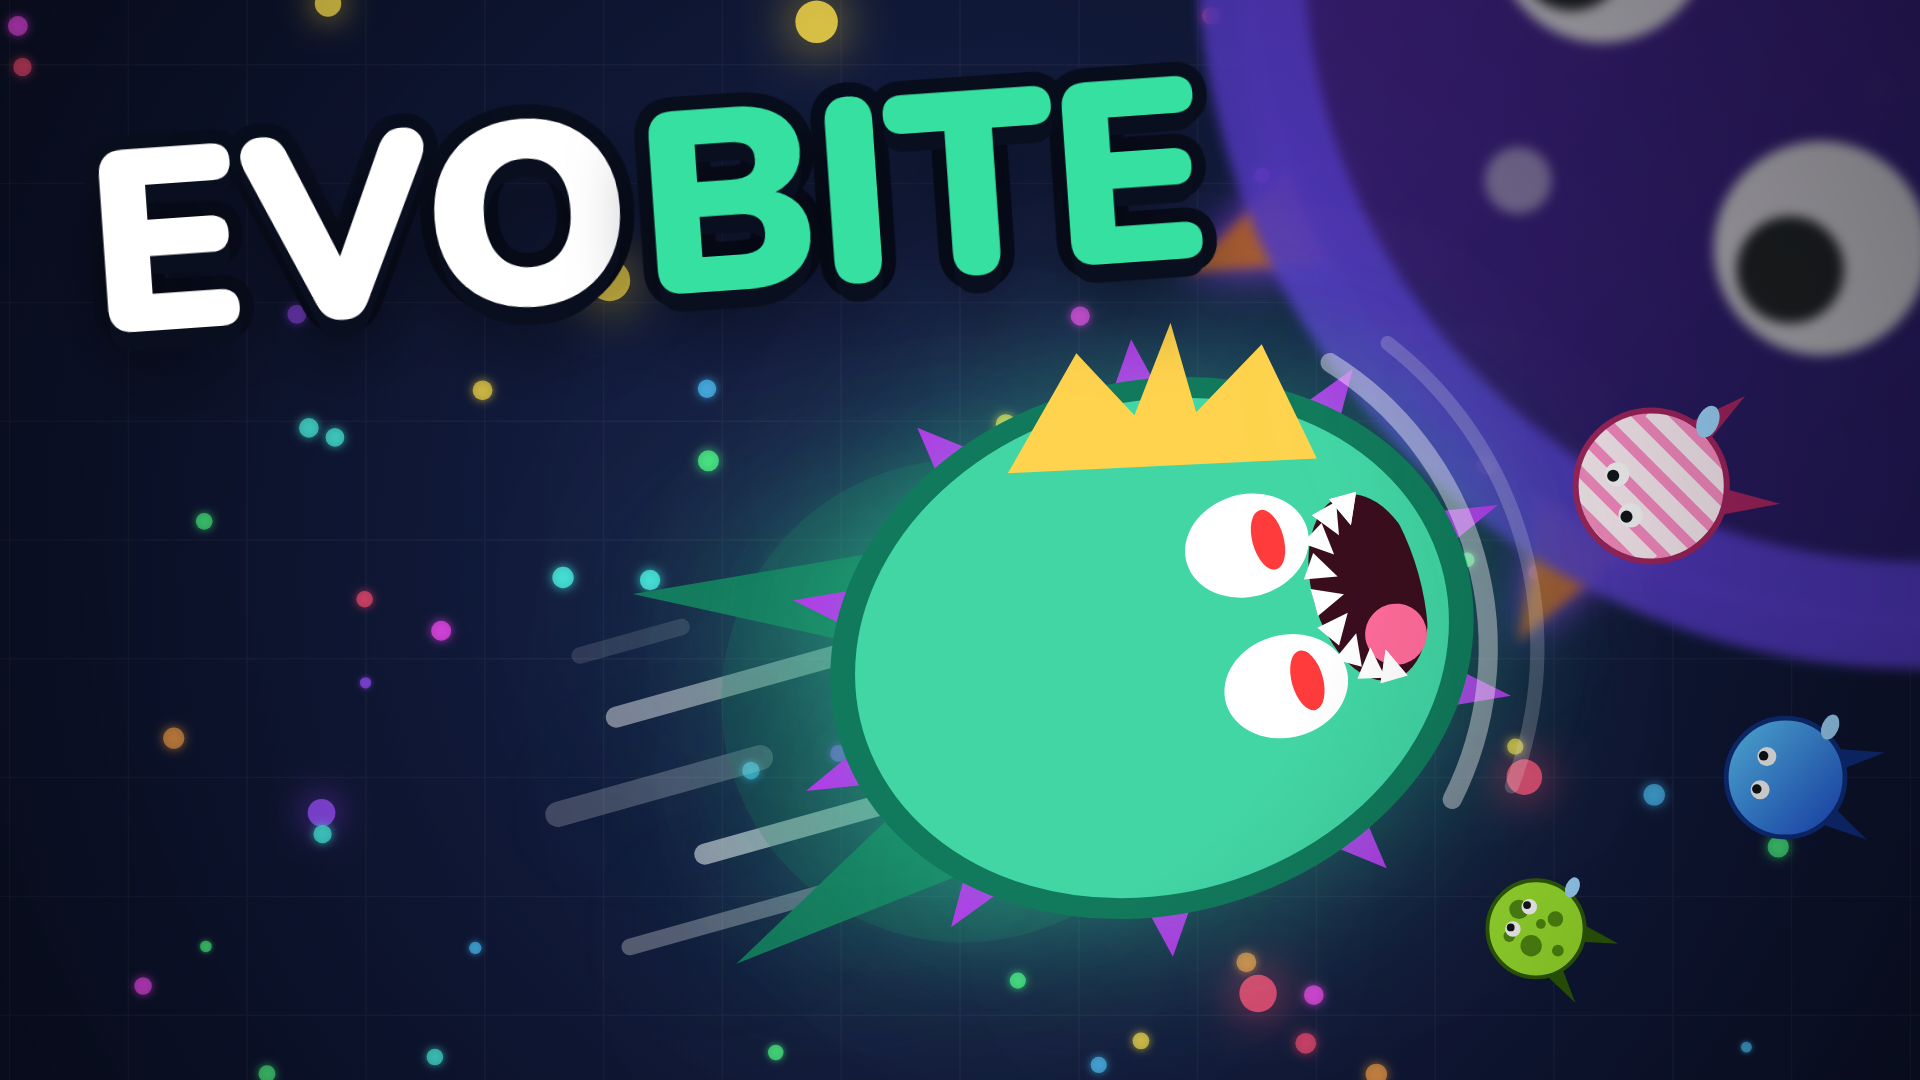
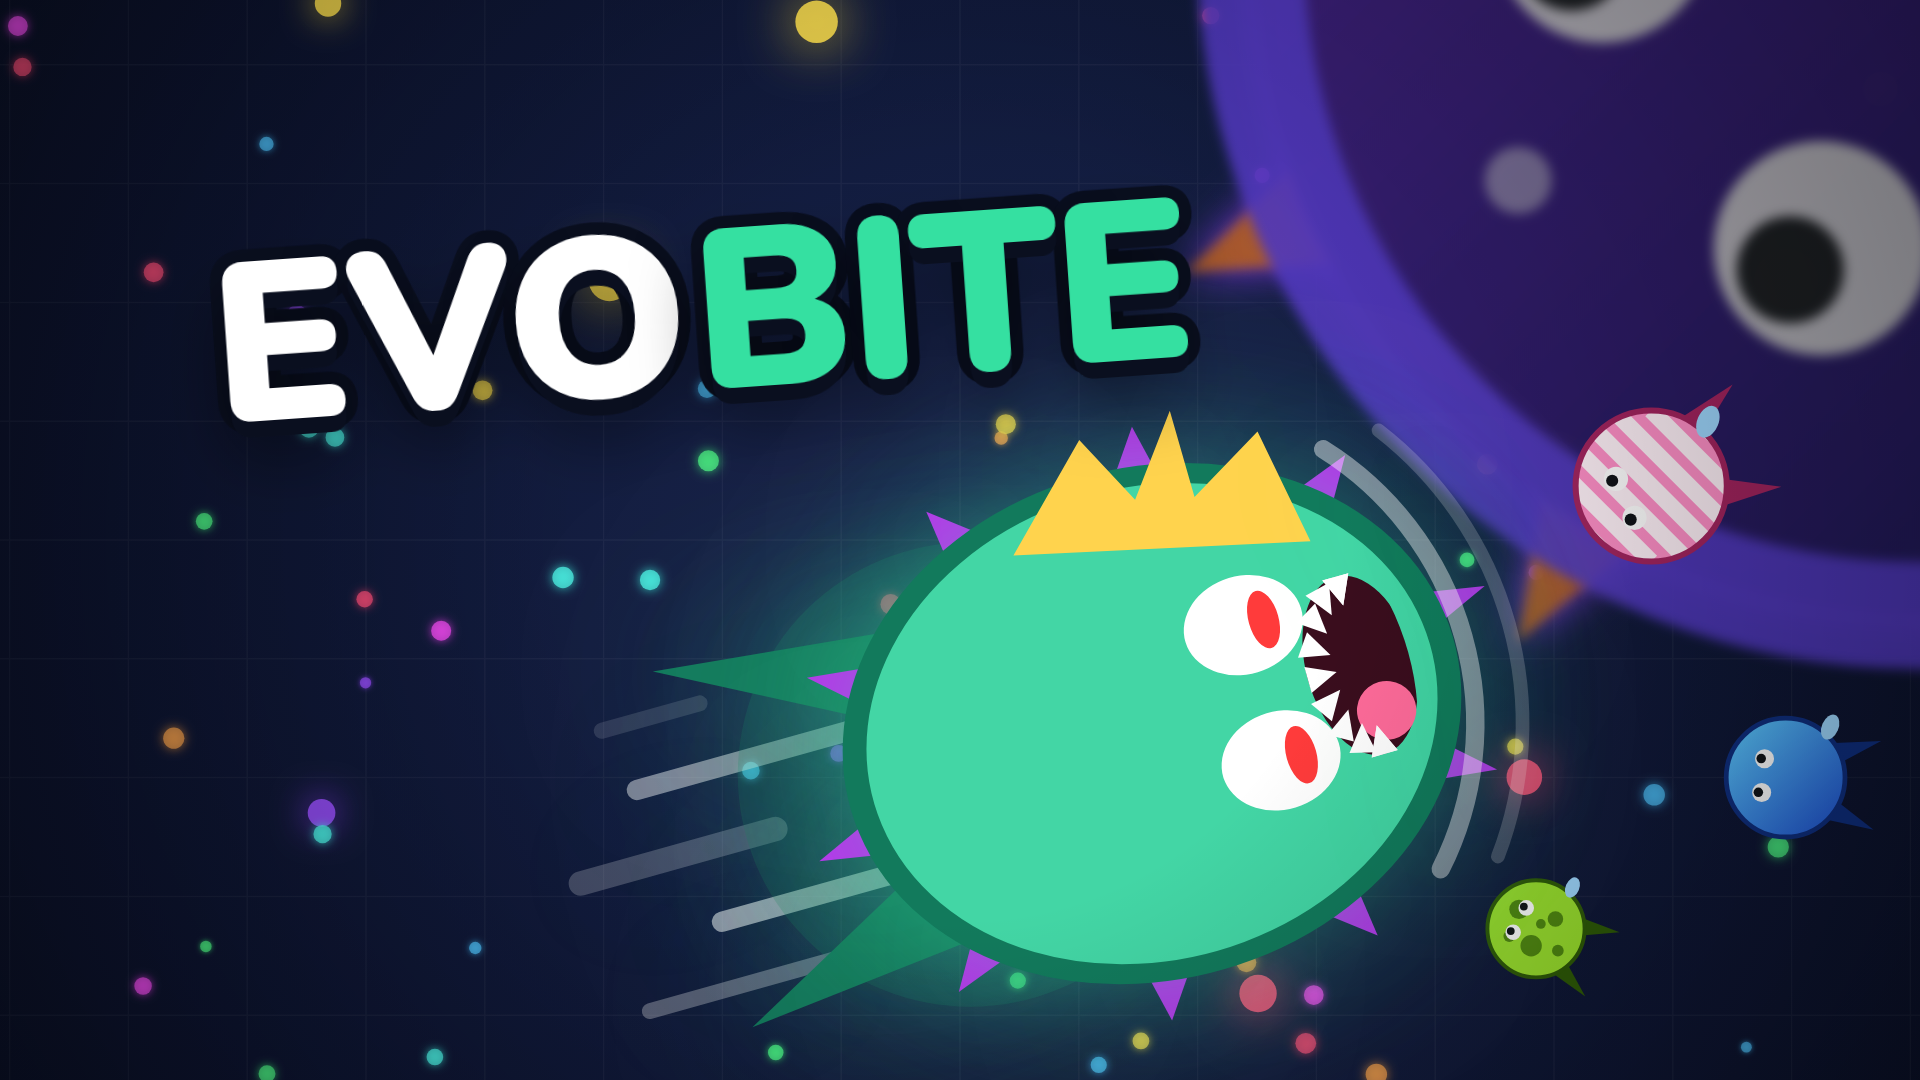
Covers: keep the top-left corner clear
CrazyGames overlays its UI on the top-left of the cover, so the title moves
down and to the right on all three formats.

Claude-Session: https://claude.ai/code/session_013NYvHD9q9sh5wNdw7uehwi

diff --git a/marketing/cover.ts b/marketing/cover.ts
@@ -43,7 +43,7 @@ interface Placement {
 
 const P: Record<Layout, Placement> = {
   landscape: {
-    hero: { x: W * 0.6, y: H * 0.6, r: U * 0.26 },
+    hero: { x: W * 0.6, y: H * 0.67, r: U * 0.25 },
     dir: norm(1, -0.28),
     giant: { x: W * 1.0, y: -H * 0.05, r: U * 0.62 },
     prey: [
@@ -51,10 +51,10 @@ const P: Record<Layout, Placement> = {
       { x: W * 0.93, y: H * 0.72, r: U * 0.055, skin: 'ocean' },
       { x: W * 0.8, y: H * 0.86, r: U * 0.045, skin: 'toxic' },
     ],
-    title: { left: W * 0.045, top: H * 0.09, size: U * 0.24, rotate: -4 },
+    title: { left: W * 0.11, top: H * 0.2, size: U * 0.21, rotate: -4 },
   },
   portrait: {
-    hero: { x: W * 0.46, y: H * 0.69, r: U * 0.29 },
+    hero: { x: W * 0.46, y: H * 0.71, r: U * 0.28 },
     dir: norm(1, -0.45),
     giant: { x: W * 1.08, y: H * 0.28, r: U * 0.5 },
     prey: [
@@ -62,17 +62,24 @@ const P: Record<Layout, Placement> = {
       { x: W * 0.88, y: H * 0.72, r: U * 0.065, skin: 'ocean' },
       { x: W * 0.16, y: H * 0.88, r: U * 0.055, skin: 'toxic' },
     ],
-    title: { left: W * 0.5, top: H * 0.045, size: W * 0.3, rotate: -4, center: true, stack: true },
+    title: {
+      left: W * 0.55,
+      top: H * 0.085,
+      size: W * 0.28,
+      rotate: -4,
+      center: true,
+      stack: true,
+    },
   },
   square: {
-    hero: { x: W * 0.47, y: H * 0.62, r: U * 0.25 },
+    hero: { x: W * 0.47, y: H * 0.71, r: U * 0.22 },
     dir: norm(1, -0.35),
     giant: { x: W * 1.1, y: H * 0.18, r: U * 0.36 },
     prey: [
       { x: W * 0.84, y: H * 0.5, r: U * 0.07, skin: 'candy' },
       { x: W * 0.86, y: H * 0.79, r: U * 0.055, skin: 'ocean' },
     ],
-    title: { left: W * 0.5, top: H * 0.07, size: U * 0.2, rotate: -4, center: true },
+    title: { left: W * 0.54, top: H * 0.19, size: U * 0.175, rotate: -4, center: true },
   },
 };
 
